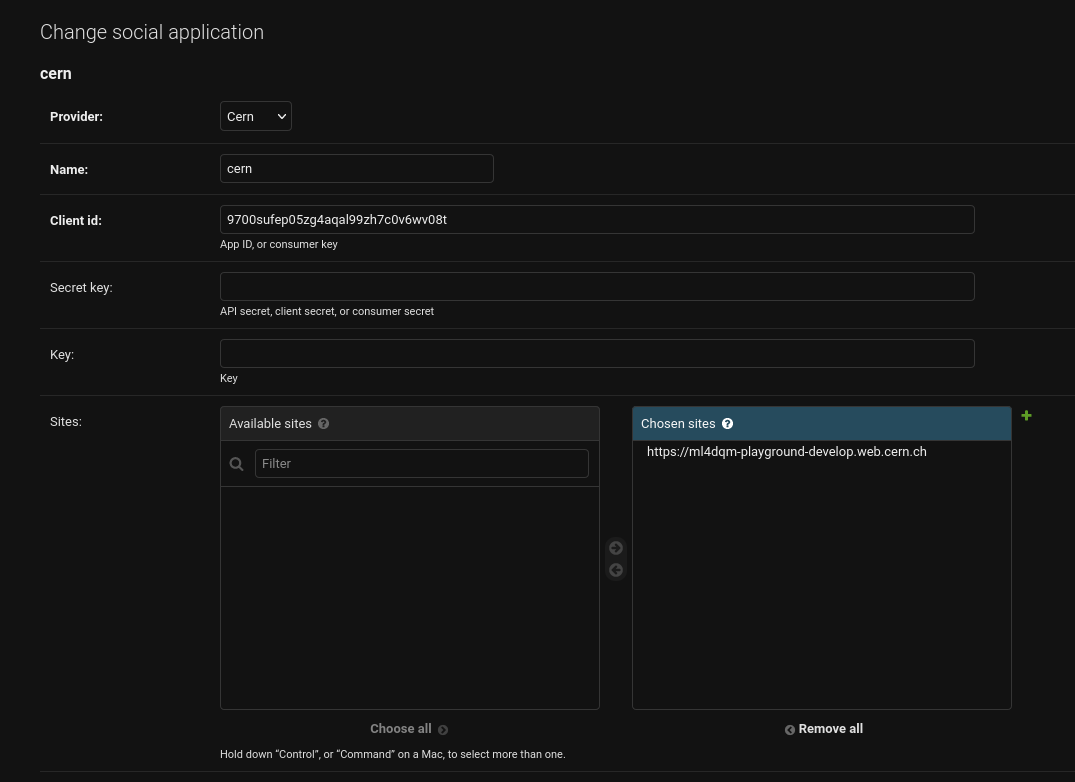
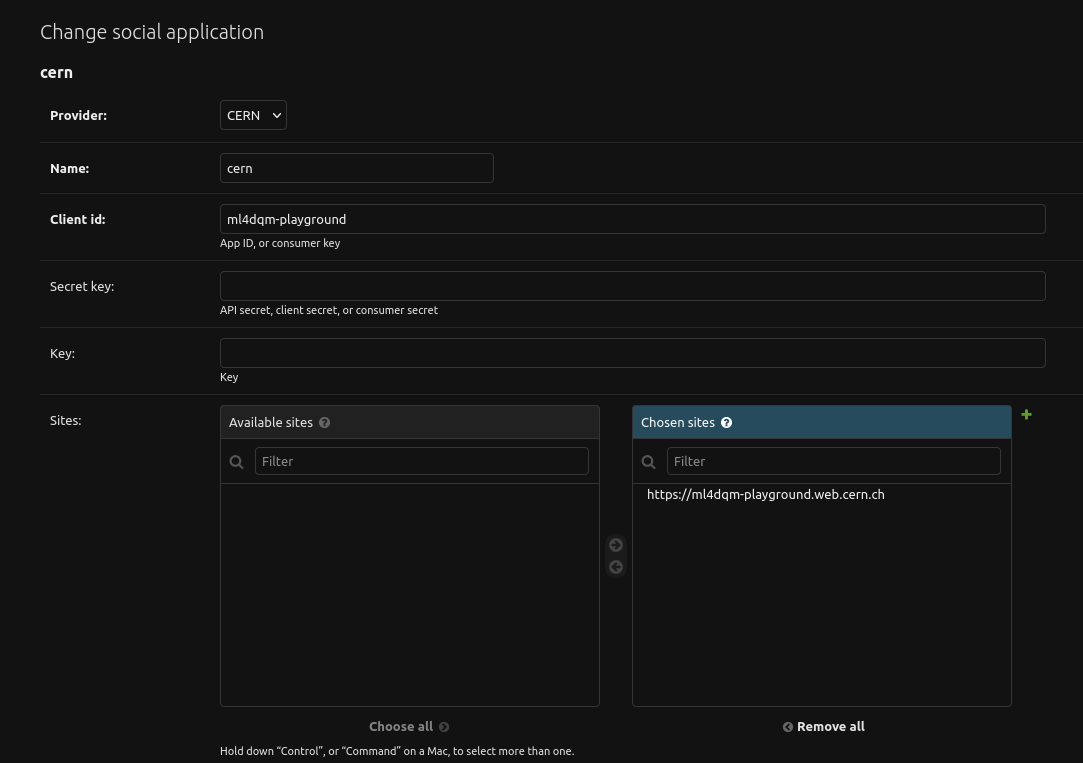
Update SSO for mlp, cleaup links

diff --git a/docs/mlplayground/deploying/guide.md b/docs/mlplayground/deploying/guide.md
@@ -3,15 +3,15 @@
 The following steps will guide you through the deployment procedure of the app on OpenShift.
 An overview of the steps is:
 
-1. [Create a new PaaS project](./#requesting-a-website)
-2. [Setup the base image & the repository that will be used](./#setup-procedure)
-4. [Setup a Database](./#setup-a-database)
-3. [Setup Environmental Variables](./#setup-environmental-variables)
+1. [Create a new PaaS project](#requesting-a-website)
+2. [Setup the base image & the repository that will be used](#setup-procedure)
+4. [Setup a Database](#setup-a-database)
+3. [Setup Environmental Variables](#setup-environmental-variables)
 4. [Setup a Django superuser](#create-a-superuser)
-5. [Mount EOS Storage](./#mount-eos-storage)
-6. [Single Sign-On](./#single-sign-on)
-7. [Deploy](./#deploying-a-new-build)
-8. [Expose the app](./#exposing-the-app)
+5. [Mount EOS Storage](#mount-eos-storage)
+6. [Single Sign-On](#single-sign-on)
+7. [Deploy](#deploying-a-new-build)
+8. [Expose the app](#exposing-the-app)
 
 The procedure can be done completely via the web UI provided by PaaS.
 
@@ -310,12 +310,22 @@ This procedure takes place on PaaS, via the `Developer` view.
      - `Key`: `password`
      - `Value`: Your PostgreSQL database's password.
      - Click `Create`.
+0. Under `Secrets`, click `Create`>`Key/value secret`:
+     - `Secret name`: `cern-sso-login-registration-credentials`
+     - `Key`: `CERN_SSO_REGISTRATION_CLIENT_ID`
+     - `Value`: Your SSO registration's `Client ID`.
+     - Click `Add key/value`.
+     - `Key`: `CERN_SSO_REGISTRATION_CLIENT_SECRET`
+     - `Value`: Your SSO registration's `Client Secret`.
+     - Click `Create`.
 1. Under `Builds --> Your project name --> Environment` use the
    `Add from ConfigMap or Secret` button to add the variables:
 
 	```
 	DJANGO_DATABASE_USER       <postgres-user/user>
 	DJANGO_DATABASE_PASSWORD   <postgres-user/password>
+  CERN_SSO_REGISTRATION_CLIENT_ID <cern-sso-login-registration-credentials/CERN_SSO_REGISTRATION_CLIENT_ID>
+  CERN_SSO_REGISTRATION_CLIENT_SECRET <cern-sso-login-registration-credentials/CERN_SSO_REGISTRATION_CLIENT_SECRET>
 	```
 
 2. Non-secret variables:
@@ -385,11 +395,6 @@ You will be asked for a `username`, a `password` and an `e-mail` (the latter is 
 
 ### CERN Setup
 
-<!-- While the following seems to be the "new" method to do it, it does not work -->
-<!-- * Visit the [application portal](https://application-portal.web.cern.ch/). -->
-<!-- * Edit your application (e.g. `webframeworks-paas-certhelper`). -->
-<!-- * Click on `SSO Registration` and generate an `OpenID Connect` provider. -->
-<!-- * Note the `Client ID` and `Client Secrets`. -->
 
 1. Visit the [application portal](https://application-portal.web.cern.ch/).
 2. Create a new application, giving it a meaningful `Application identifier` (e.g. `ml4dqm-playground`).

diff --git a/docs/certhelper/deploying/guide.md b/docs/certhelper/deploying/guide.md
@@ -3,16 +3,16 @@
 The following steps will guide you through the deployment procedure of the app on OpenShift.
 An overview of the steps is:
 
-1. [Create a new PaaS project](./#requesting-a-website)
-2. [Setup the repository that will be used](./#setup-procedure)
-3. [Setup Environmental Variables](./#setup-environmental-variables)
-4. [Setup a Database](./#setup-a-database)
-5. [Mount EOS Storage](./#mount-eos-storage)
-6. [Add Redis Server](./#add-redis-server)
-7. [Add nginx Server](./#add-nginx-server-not-working-for-now) (not working for now)
-8. [Single Sign-On](./#single-sign-on)
-9. [Deploy](./#deploying-a-new-build)
-10. [Expose the app](./#exposing-the-app)
+1. [Create a new PaaS project](#requesting-a-website)
+2. [Setup the repository that will be used](#setup-procedure)
+3. [Setup Environmental Variables](#setup-environmental-variables)
+4. [Setup a Database](#setup-a-database)
+5. [Mount EOS Storage](#mount-eos-storage)
+6. [Add Redis Server](#add-redis-server)
+7. [Add nginx Server](#add-nginx-server-not-working-for-now) (not working for now)
+8. [Single Sign-On](#single-sign-on)
+9. [Deploy](#deploying-a-new-build)
+10. [Expose the app](#exposing-the-app)
 
 The procedure can be done completely via the web UI provided by PaaS. However,
 the `oc` command line utility can prove very useful.

diff --git a/docs/cmssw/pixel-local/gpu/SiPixelDigisCUDASOAView.md b/docs/cmssw/pixel-local/gpu/SiPixelDigisCUDASOAView.md
@@ -112,7 +112,7 @@ When a `SiPixelDigisCUDASOAView` instance is created, pointers to the
 start of each SoA variable (`clus_`, `adc_` etc) are created. Those
 are calculated using the start of the memory requested (i.e. the pointer
 stored in [`m_store`](./SiPixelDigisCUDA.md#m_store)), the constant
-assigned to each variable in [`StorageLocation`](./#storagelocation) and
+assigned to each variable in [`StorageLocation`](#storagelocation) and
 the number of pixels available (`maxFedWords`).
 
 !!! note
@@ -158,13 +158,13 @@ Let's assume that it points to GPU memory location `0`.
 
 To find out where the first variable will be stored (i.e. the first
 constant in `StorageLocation`, `kCLUS`), we check the assignment done
-in the class' [constructor](./#constructor):
+in the class' [constructor](#constructor):
 
 ```c++ linenums="52"
 clus_ = getColumnAddress<int32_t>(StorageLocation::kCLUS, store, maxFedWords);
 ```
 
-The [`getColumnAddress`](./#getcolumnaddress) method is called, which will
+The [`getColumnAddress`](#getcolumnaddress) method is called, which will
 calculate the memory offset starting from the `store` pointer as:
 
 ```

diff --git a/docs/certhelper/apps/certifier/views/certify.md b/docs/certhelper/apps/certifier/views/certify.md
@@ -132,7 +132,7 @@ combination of parameters, else create it.
 	```
 	Where `self.run` is the `OmsRun`instance created [before](#on-class-creation).
 
-??? danger "TRIGGER WARNING; NOT [DRY](../../../../../basic-concepts#dry)"
+??? danger "TRIGGER WARNING; NOT [DRY](../../../../basic-concepts.md#dry)"
 
 	This last step of the procedure has been :skull:COPIED-PASTED:skull: to the
 	[`UpdateRunView`](../../listruns/views/updaterun.md)
@@ -179,7 +179,7 @@ open runs.
 This can be caused either by:
 
 * CertHelper not having access to
-[RunRegistry](../../../../../basic-concepts#run-registry) or OMS API or
+[RunRegistry](../../../../basic-concepts.md#run-registry) or OMS API or
 * Run number/run reconstruction was not found in RunRegistry or OMS API.
 
 Input fields are presented to the user instead of a display, so that they can

diff --git a/docs/czangela-tutorial/weeks/week01_exercises.md b/docs/czangela-tutorial/weeks/week01_exercises.md
@@ -93,7 +93,7 @@
 
 ??? example "02.a. Give an example of `global`, `device` and `host-device` functions in `CMSSW`."
 
-    For example see `__global__` kernel in [previous exercise](weeks/week01_exercises/#solution_1).
+    For example see `__global__` kernel in [previous exercise](#solution_1).
 
     `__device__` function in [RecoLocalTracker/SiPixelClusterizer/plugins/SiPixelRawToClusterGPUKernel.cu](https://cmssdt.cern.ch/dxr/CMSSW/source/RecoLocalTracker/SiPixelClusterizer/plugins/SiPixelRawToClusterGPUKernel.cu#57):
     ```cuda

diff --git a/docs/mlplayground/config.md b/docs/mlplayground/config.md
@@ -31,3 +31,10 @@ See [here](apps/histogram_file_manager/management.md#discover_dqm_files).
 
 ### `SITE_ID`
 
+### `CERN_SSO_REGISTRATION_CLIENT_ID`
+
+You can get this by registering the application in the [`Application Portal`](https://application-portal.web.cern.ch/) or reusing 
+
+### `CERN_SSO_REGISTRATION_CLIENT_SECRET`
+
+Same with `CERN_SSO_REGISTRATION_CLIENT_ID`.

diff --git a/docs/certhelper/apps/oms/models.md b/docs/certhelper/apps/oms/models.md
@@ -20,7 +20,7 @@ as a column in the list of reference runs.
 	
 This information is acquired as a separate HTTP request to
 [ebutz.web.cern.ch](http://ebutz.web.cern.ch). Updated when
-model instance's [`update_apv_mode` method](./#update_apv_mode) is called.
+model instance's [`update_apv_mode` method](#update_apv_mode) is called.
 
 ### Methods
 

diff --git a/docs/cmssw/pixel-local/gpu/SiPixelDigisCUDA.md b/docs/cmssw/pixel-local/gpu/SiPixelDigisCUDA.md
@@ -41,7 +41,7 @@ stored on GPU memory.
 
 It is initialized by default in the `SiPixelDigisCUDA` constructor, and
 is then passed on as a parameter to initialize `m_view`.
-See the [Constructor](./#constructor) below for more information.
+See the [Constructor](#constructor) below for more information.
 
 ### `m_view`
 

diff --git a/docs/basic-concepts.md b/docs/basic-concepts.md
@@ -64,7 +64,7 @@ the Pixel Detector is part of the whole CMS detector.
 
 In the reconstruction code, the Pixel Detector is represented as a 2D matrix of
 pixels (`PixelDigi`s), with X and Y coordinates, each one having an
-[ADC](./#adc) value.
+[ADC](#adc) value.
 
 ### Pixel-local Reconstruction
 
